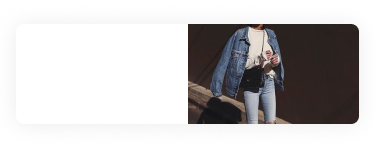
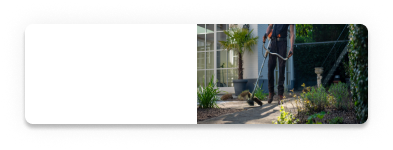
[+] Adicionada cards correspontes as categorias

Changed region(s): [[0.0587, 0.16, 0.968, 0.88]]

diff --git a/flutter/atomoon/lib/screens/home/pages/home/home_page.dart b/flutter/atomoon/lib/screens/home/pages/home/home_page.dart
@@ -147,10 +147,10 @@ class HomePage extends StatelessWidget {
           image: AssetImage("lib/assets/images/card_img1.png")),
       CategoryCard(
           text: 'Faxineiro(a)',
-          image: AssetImage("lib/assets/images/card_img1.png")),
+          image: AssetImage("lib/assets/images/card_img2.png")),
       CategoryCard(
           text: 'Encanador(a)',
-          image: AssetImage("lib/assets/images/card_img1.png")),
+          image: AssetImage("lib/assets/images/card_img3.png")),
     ]);
   }
 
